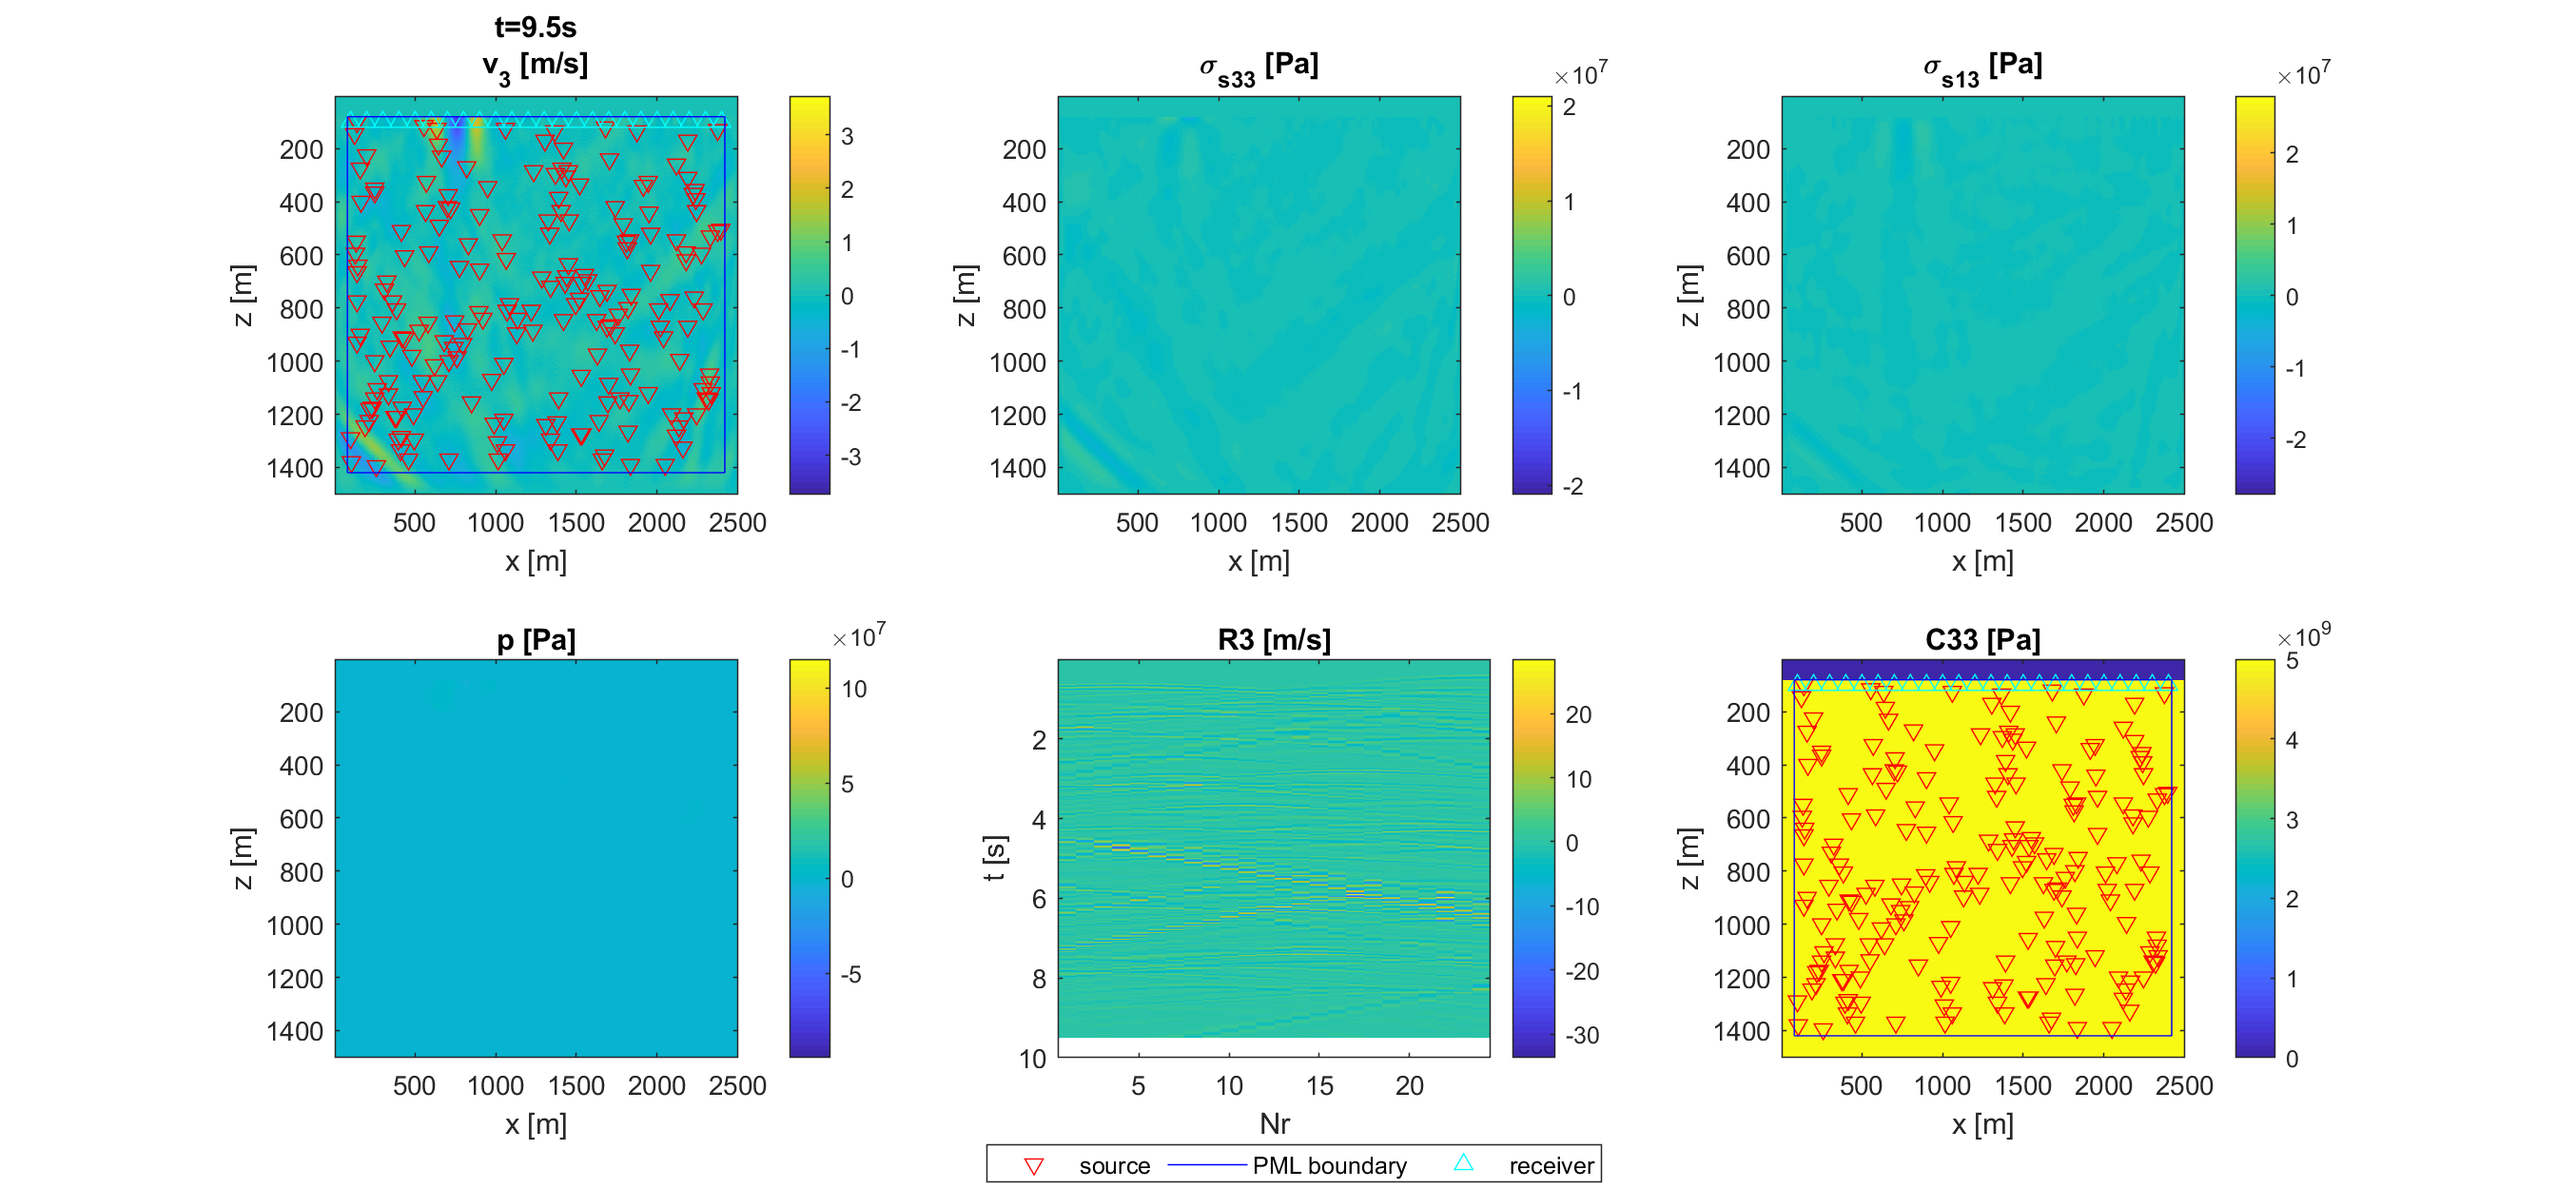
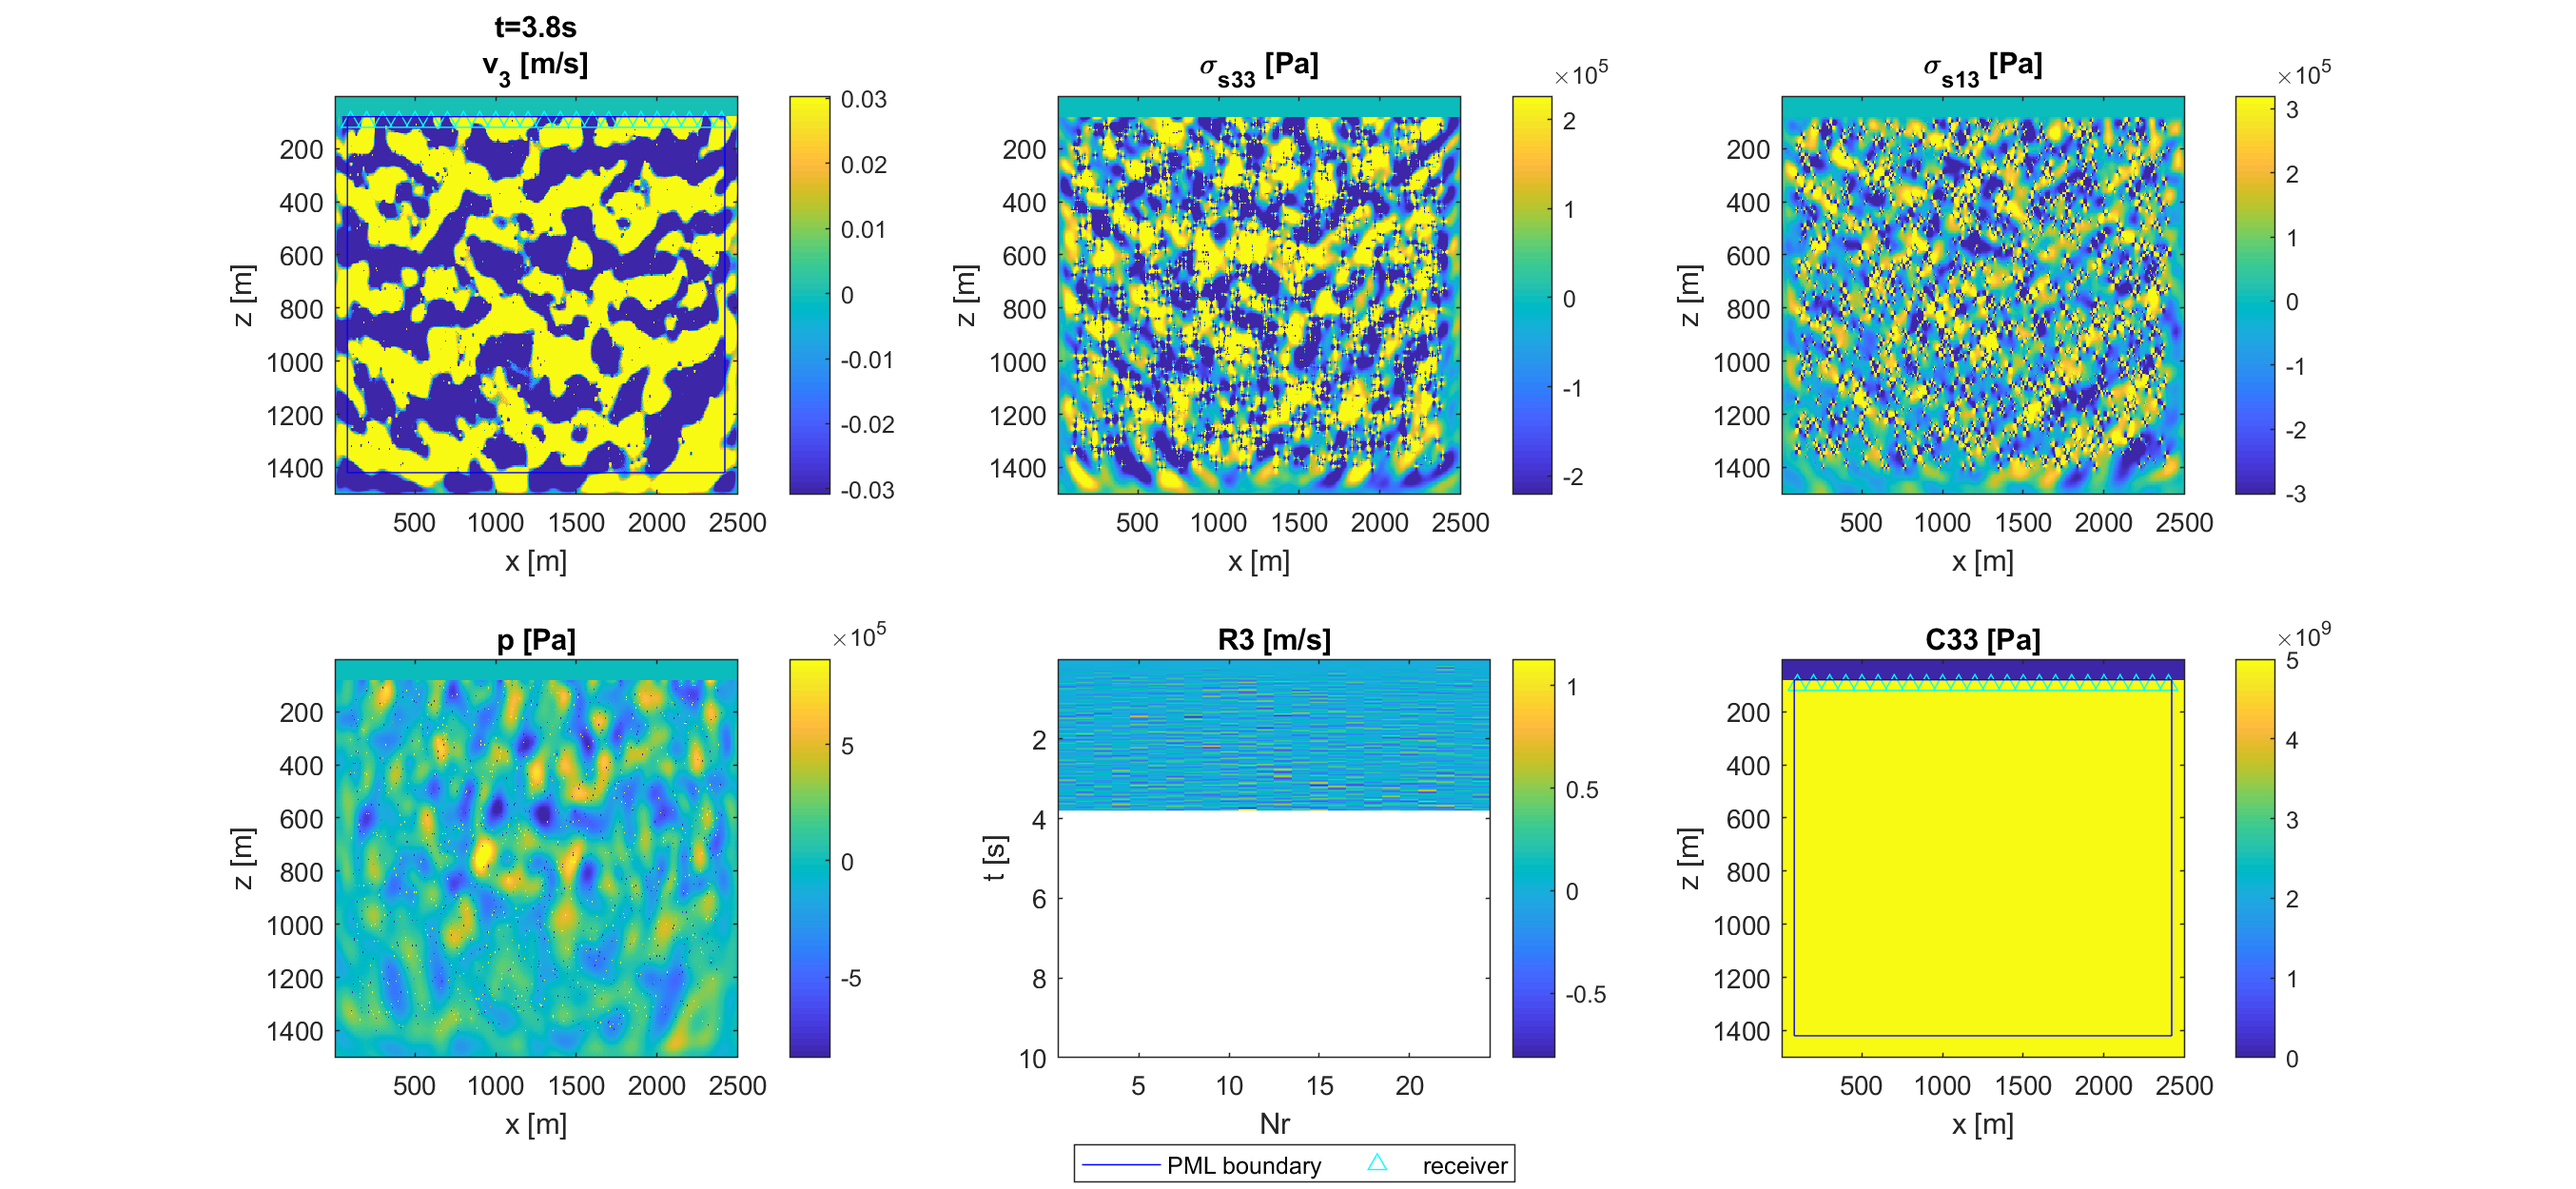
2

diff --git a/monoclinic_2D_xz.m b/monoclinic_2D_xz.m
@@ -4,7 +4,7 @@ function [v1,v3,R1,R3]=monoclinic_2D_xz(dt,dx,dz,nt,nx,nz,...
     lp,nPML,R,...
     rho,C11,C13,C15,C33,C35,C55,...
     Eta11,Eta13,Eta15,Eta33,Eta35,Eta55,...
-    plot_interval,...
+    plot_interval,plot_source,...
     save_figure,path)
 %% create folder for figures
 if ~exist(path,'dir')
@@ -216,9 +216,11 @@ for l=2:nt-1
         ylabel('z [m]');
         colorbar;
         hold on;
-        for i=1:length(s1)
-            ax2=plot(s1(i)*dx,s3(i)*dz,'v','color',[1,0,0]);
-            hold on;
+        if plot_source==1
+            for i=1:length(s1)
+                ax2=plot(s1(i)*dx,s3(i)*dz,'v','color',[1,0,0]);
+                hold on;
+            end
         end
         for i=1:length(r1)
             ax4=plot(r1(i)*dx,r3(i)*dz,'^','color',[0,1,1]);
@@ -270,9 +272,11 @@ for l=2:nt-1
         title('C33 [Pa]');
         colorbar;
         hold on;
-        for i=1:length(s1)
-            ax2=plot(s1(i)*dx,s3(i)*dz,'v','color',[1,0,0]);
-            hold on;
+        if plot_source==1
+            for i=1:length(s1)
+                ax2=plot(s1(i)*dx,s3(i)*dz,'v','color',[1,0,0]);
+                hold on;
+            end
         end
         for i=1:length(r1)
             ax4=plot(r1(i)*dx,r3(i)*dz,'^','color',[0,1,1]);
@@ -287,9 +291,15 @@ for l=2:nt-1
         axis on;
         ax3=plot([lp+1,nx-lp-1]*dx,[lp+1,lp+1]*dz,'color','blue');
         axis on;
-        legend([ax2,ax3,ax4],...
-            'source','PML boundary','receiver',...
-            'Location',[0.5,0.02,0.005,0.002],'orientation','horizontal');
+        if plot_source==1
+            legend([ax2,ax3,ax4],...
+                'source','PML boundary','receiver',...
+                'Location',[0.5,0.02,0.005,0.002],'orientation','horizontal');
+        else
+            legend([ax3,ax4],...
+                'PML boundary','receiver',...
+                'Location',[0.5,0.02,0.005,0.002],'orientation','horizontal');
+        end
         if save_figure==1
             print(gcf,[path num2str(n_picture) '.png'],'-dpng','-r200');
             n_picture=n_picture+1;

diff --git a/input_inteferometry2.m b/input_inteferometry2.m
@@ -104,7 +104,7 @@ Eta15=C15*scale;
 Eta33=C33*scale;
 Eta35=C35*scale;
 Eta55=C55*scale;
-ns=60000;
+ns=8000;
 
 % magnitude
 M=2*ones(1,ns);
@@ -135,10 +135,8 @@ src1=zeros(nt,ns);
 src3=zeros(nt,ns);
 
 % source signal
-for is=1:ns
-    src1(t_trigger(is):t_trigger(is)+1999,is)=si(is)*rickerWave(freq(is),dt,2000,M(is));
-    src3(t_trigger(is):t_trigger(is)+1999,is)=si(is)*rickerWave(freq(is),dt,2000,M(is));
-end
+src1=randn(nt,ns);
+src3=src1;
 
 % receiver locations [m]
 r1=20:20:480;
@@ -148,7 +146,7 @@ r3=(ones(size(r1)))*20;
 source_type='P';
 
 % point interval in time steps
-plot_interval=200;
+plot_interval=1000;
 
 % whether to save figure. 1 for save. 0 for not.
 save_figure=1;
